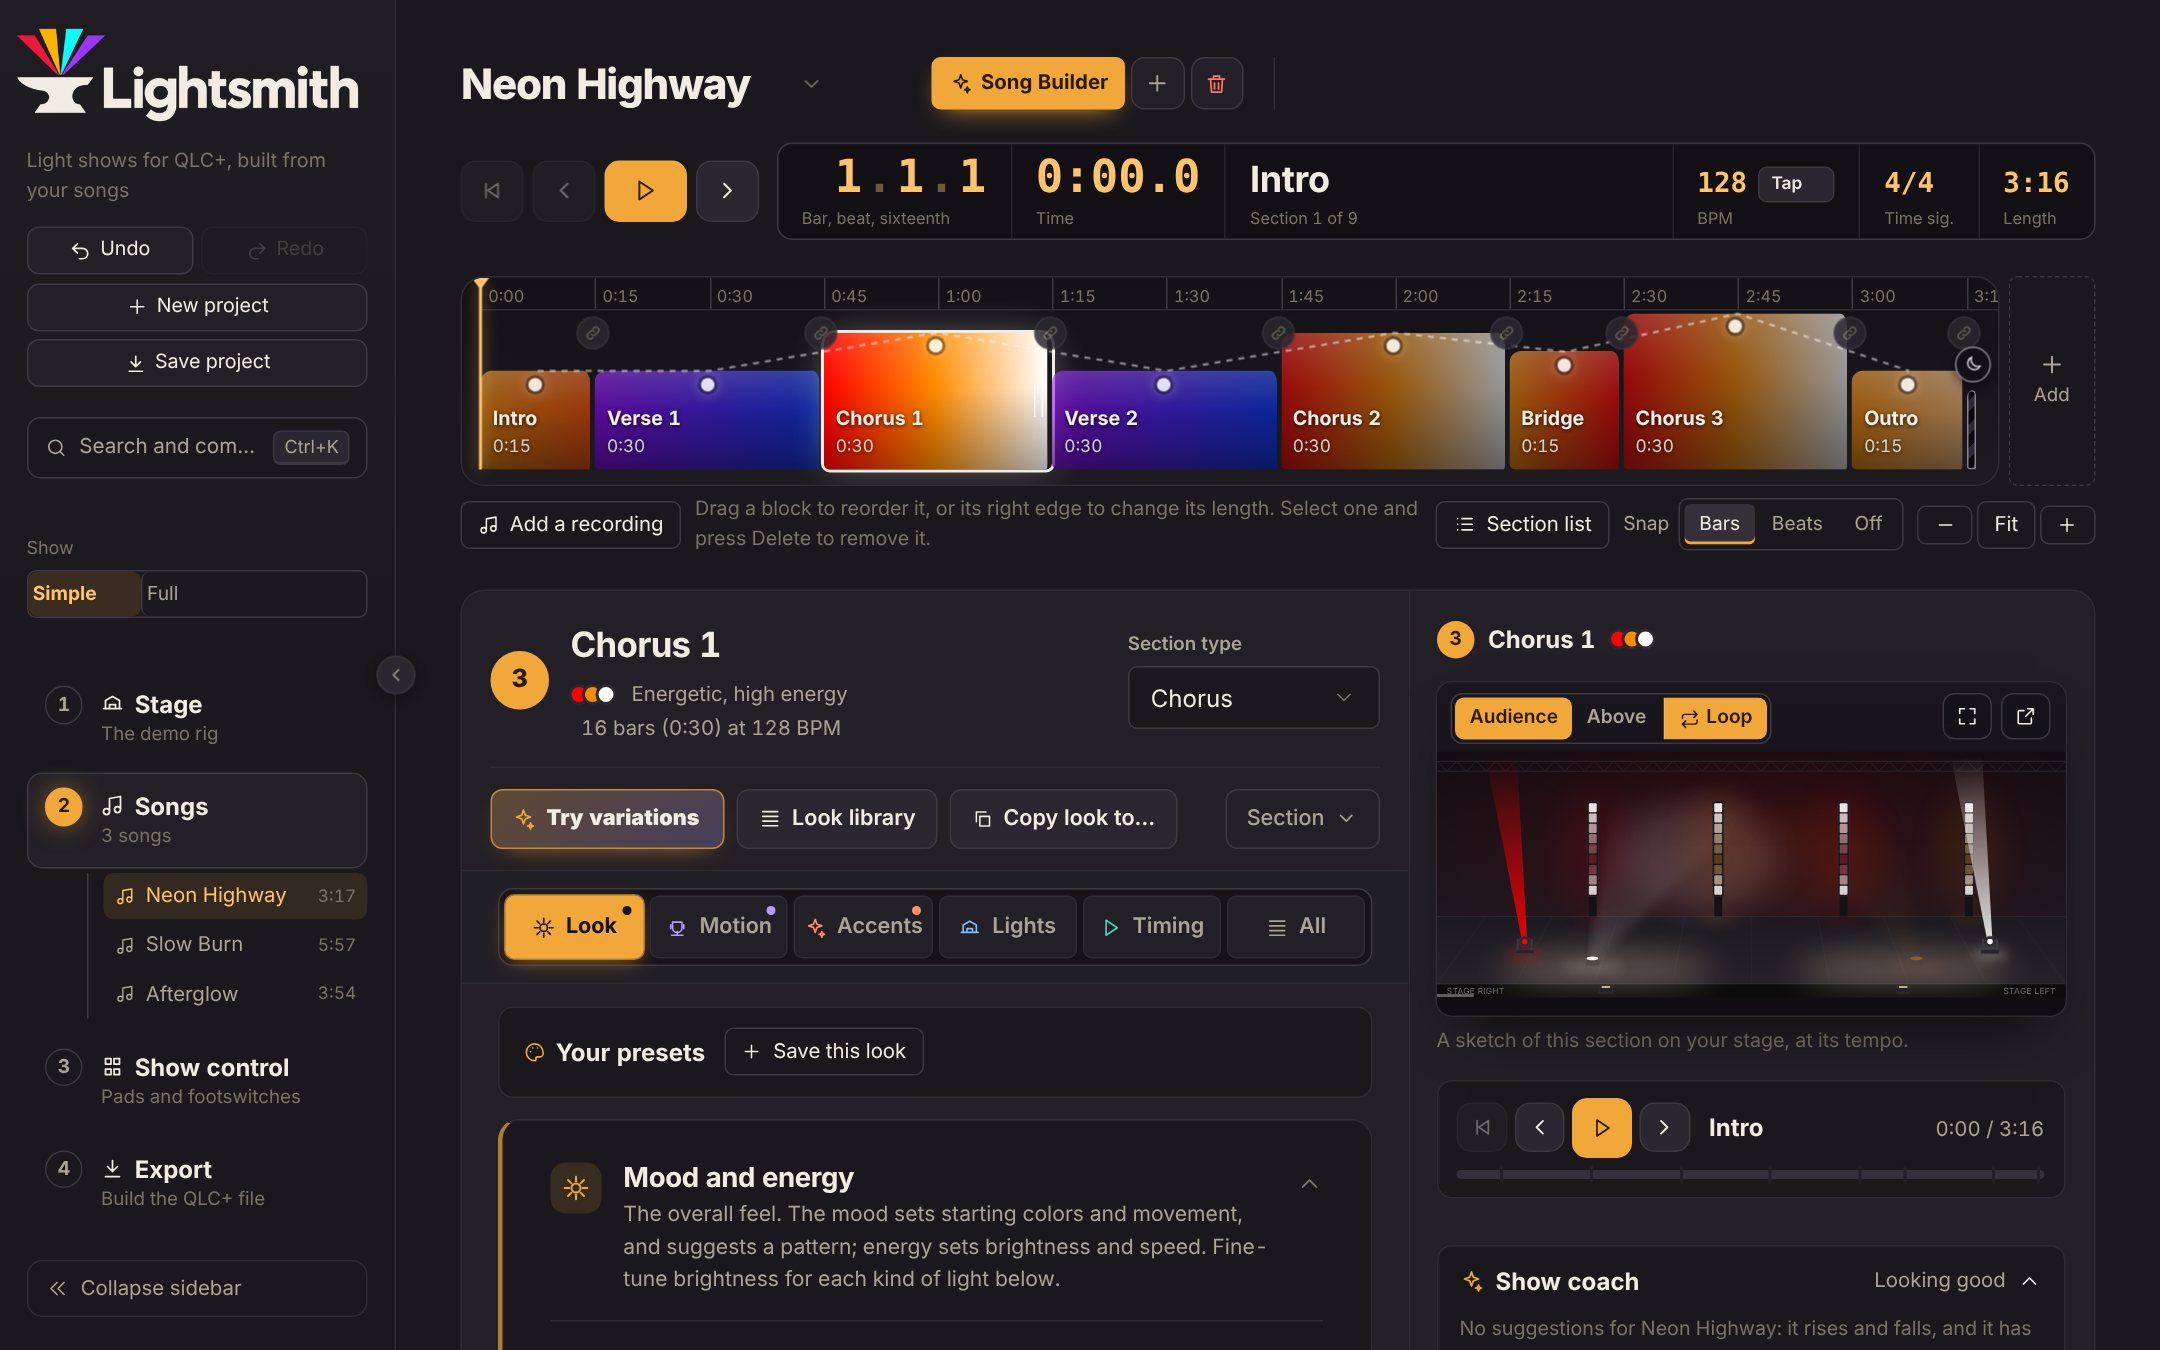
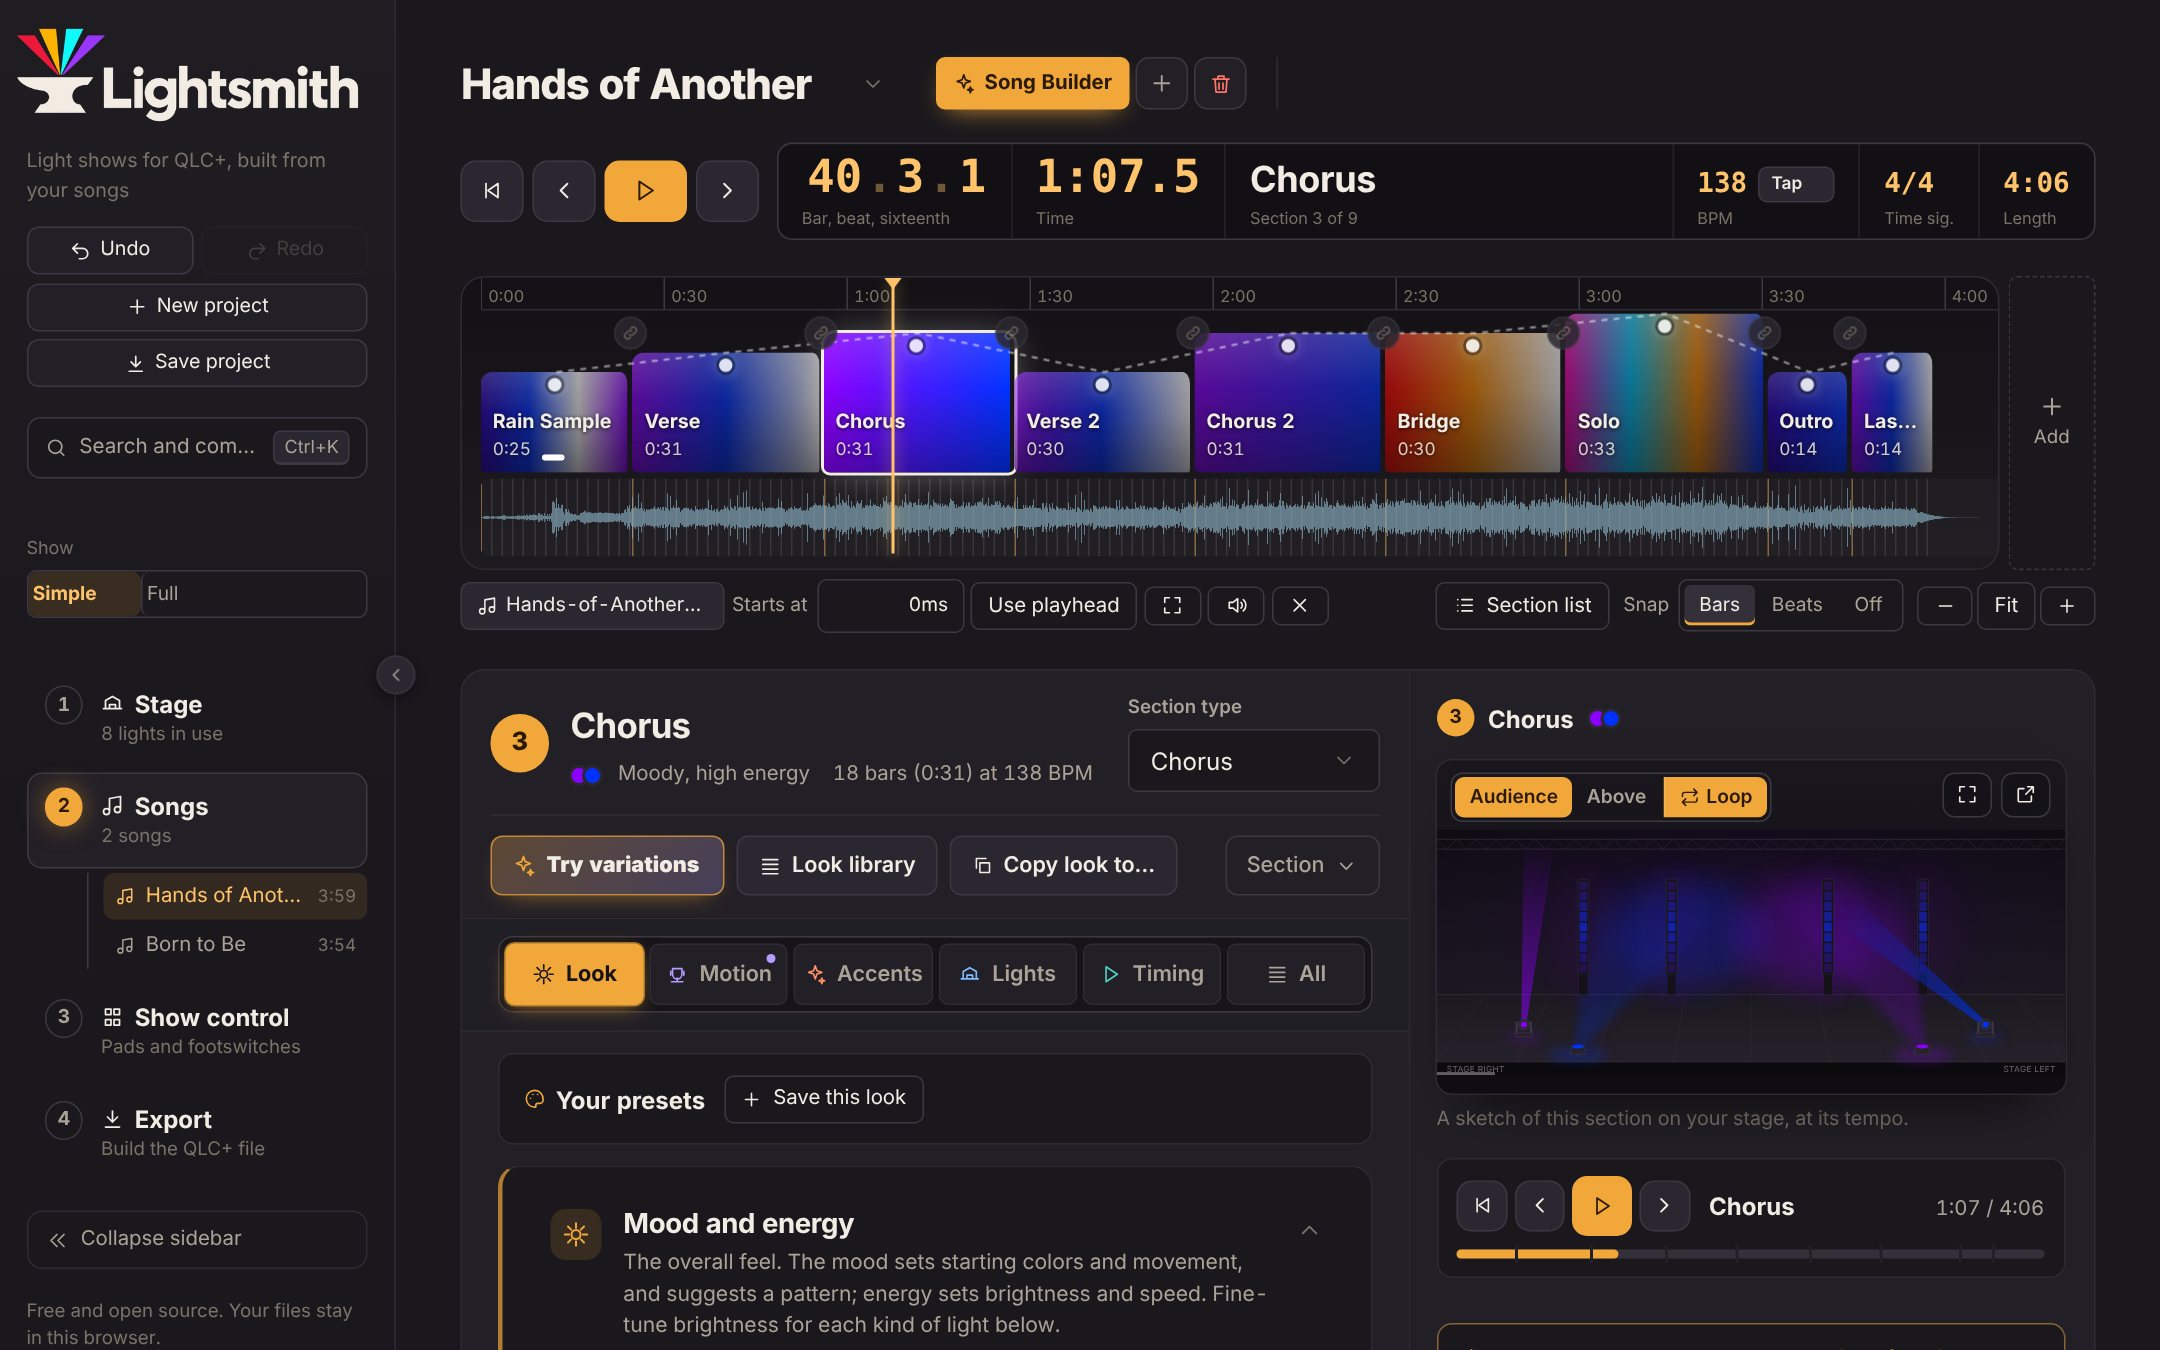
README: lead screenshot shows a song over its recording's waveform
Claude-Session: https://claude.ai/code/session_011s6xTq7Q8K7Dc7AUzx6B84

diff --git a/README.md b/README.md
@@ -16,7 +16,7 @@ never leave your computer.
 No QLC+ show file yet? Click **Try the demo** on the first page: a typical small band rig
 (LED bars, floor washes, front lights and two moving heads) with three songs ready to play.
 
-![A song in Lightsmith: sections on a timeline, the look editor and a live stage preview](docs/screenshot-songs.jpg)
+![A song in Lightsmith: sections laid over the recording's waveform, the look editor and a live stage preview](docs/screenshot-songs.jpg)
 
 ## What you can do
 
